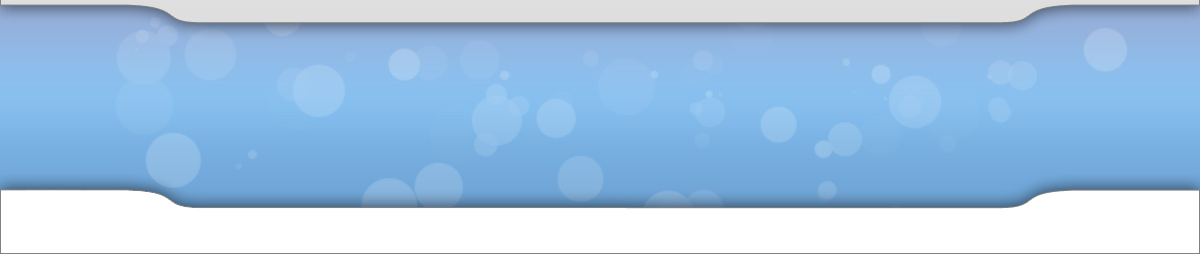
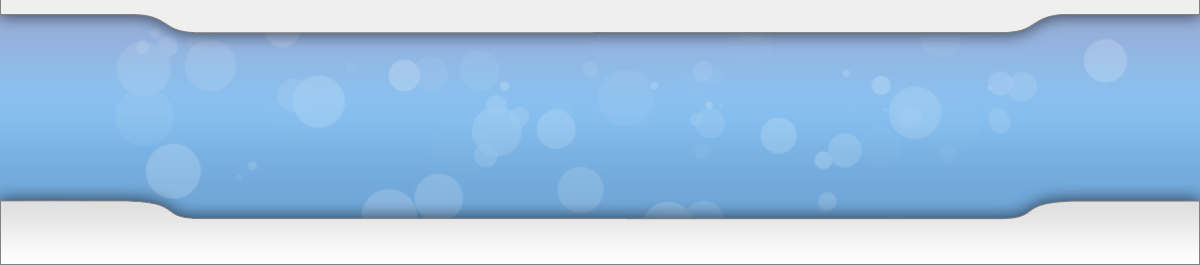
modif templates

Changed region(s): [[0.0, 0.0, 1.0, 0.1654], [0.0, 0.7165, 1.0, 0.8543], [0.6783, 0.6063, 0.7092, 0.6339]]

diff --git a/templates/stylesheet.css b/templates/stylesheet.css
@@ -1,78 +1,80 @@
+/*pour supprimer l''es espace du haut et du bas*/
+* {margin:0; padding:0;}
+
 body {
+    margin: 0; padding: 0;
+    background: #8bbfed url(imgages/degrade.jpg) repeat-x; 
+    text-align: center;
     font-family:arial, sans-serif;
     font-size:100%;
-    background: -moz-linear-gradient(top, #aedae5, #FFFFFF); /* pour Firefox 3.6+ */  
-    background: -webkit-gradient(linear, left top, left bottom, from(#aedae5), to(#FFFFFF)); /* pour webkit */ 
-    background-repeat: no-repeat; 
-    filter: progid:DXImageTransform.Microsoft.gradient(startColorstr='blue', endColorstr='white');
 }
 
-/* MENU */
-
-#menu { margin-right: auto; margin-left: auto; width: 960px; }
-#menu ul { list-style: none;
-           text-align: center;
-           position: relative;
-}
-#menu li { display: inline;
-           word-spacing: 80px; 
-}
-#menu li a { color: #818181; font-size: 1.5em; text-align: center; text-decoration: none; }
-#menu li a { background: url(images/cadreSelectionTitre.png)  no-repeat scroll 0 0 transparent; 
-}
-
-/* HEADER */
-
-#header {
-    margin-left: auto;
-    margin-right: auto;
-    width: 960px;
-    height: 333px;
-    background: url(images/header.jpg);
+div {
     display: block;
 }
 
-/* CONTENT */
+p {
+    display: block;
+}
 
+#bkgd { 
+    background: url(images/header.jpg) no-repeat top center;
+}
+#bkgd2 {
+    margin:0 auto;
+    background: url(images/header.jpg) no-repeat top center;
+    
+    min-width: 980px;
+}
+
+#header {
+ margin: 0;
+}
+
+/* =Navigation
+----------------------------------------------- */
+#nav {
+    margin-right: auto;
+    margin-left: auto;
+    width: 980px;
+    height: 244px;
+    position: relative;
+    top: 15px;
+    left: 0px;
+    z-index: 100;
+    font-family: arial, sans-serif;
+    font-size: 24px;
+}
+li.mnu {display: inline;}
+
+
+/* CONTENT */
 #content {
     margin-right: auto;
     margin-left: auto;
-    width: 960px;
-    background: url(images/content.jpg);
-    text-align:justify;
+    background: url(images/fond_content.jpg) repeat-y center;
 }
 
-.imgContent {
-    float:left;
-    width: 158px;
-    margin: 20px 10px 10px 0;;
-}
-
-#content h1 {
-    font-size: 24pt;
-    color: #000000; 
-    padding-left: 10px;
-    padding-top: 20px;
-}
-#content p {
+#watermark {
+    margin-right: auto;
+    margin-left: auto;
+    width: 980px;
     padding: 0 5px 0 5px;
     font-size: 14pt;
     color: #818181;
     line-height: 18pt;
+    vertical-align: baseline
 }
 
-#cadre {
-    margin-right: auto;
-    margin-left: auto;
-    width: 920px;
+#watermark .imgcontent {
+    float: left
 }
 
 /* FOOTER */
-
-#footer { 
-	margin-right: auto;
-	margin-left: auto;
-	width: 960px;
-	height: 254px;
-	background: url(images/footer.jpg);
+#footer {
+    margin-right: auto;
+    margin-left: auto;
+    background: url(images/footer_1.jpg) no-repeat center;
+    clear:both;
+    height:250px;
 }
